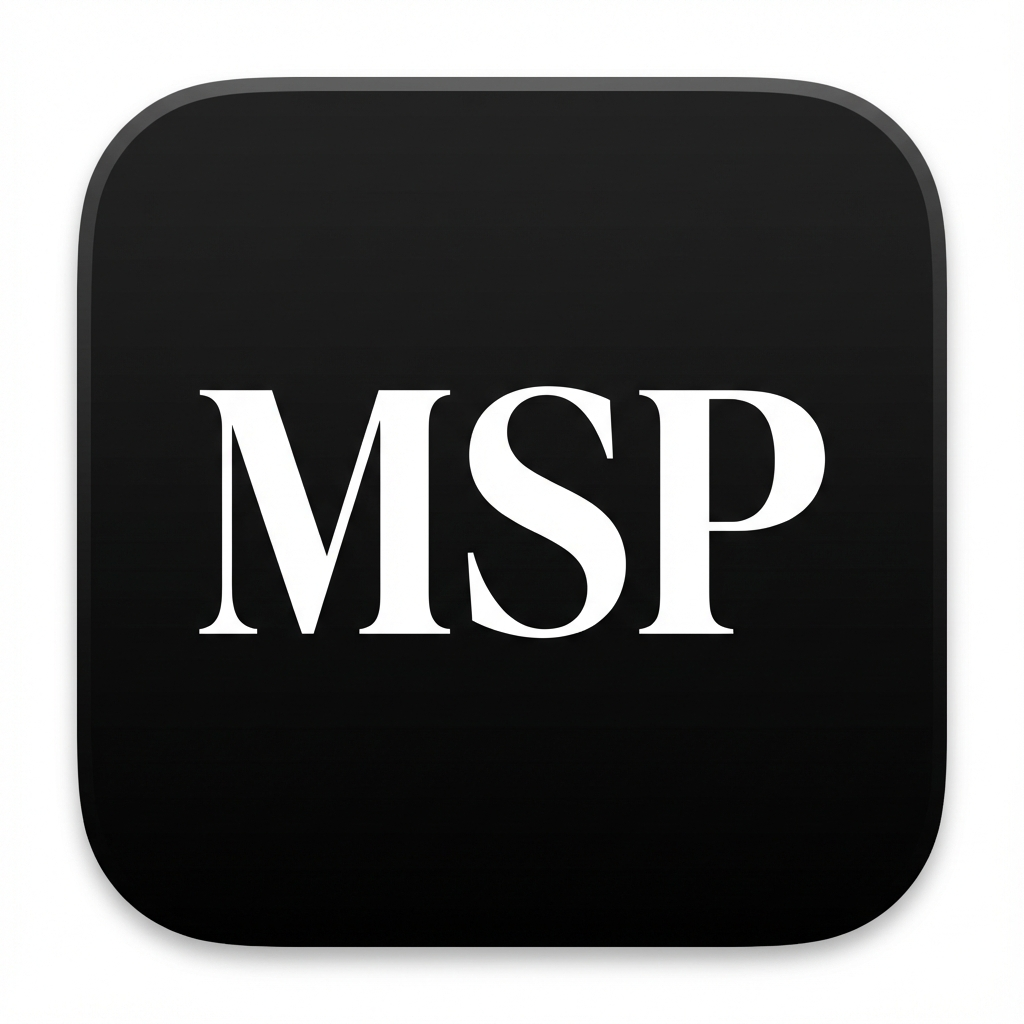
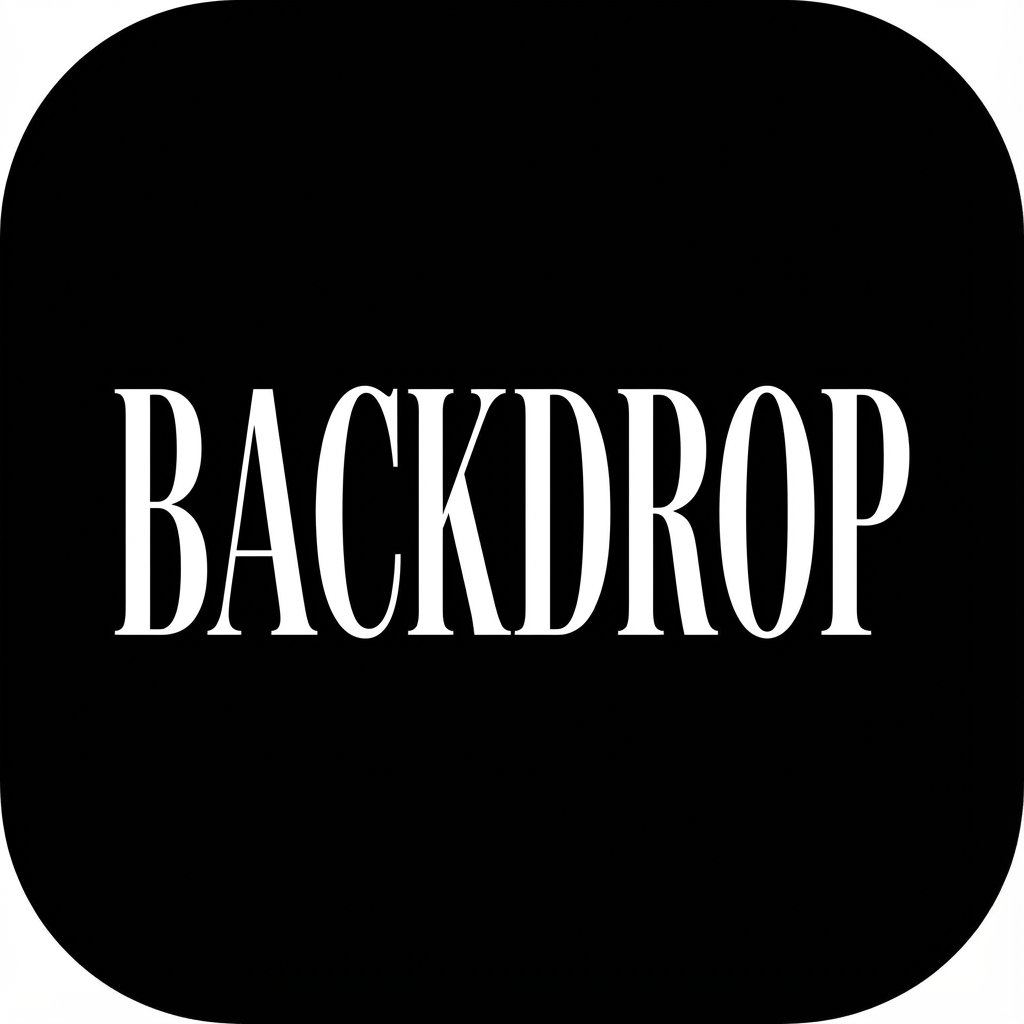
rebranding to Backdrop

diff --git a/src/app/page.tsx b/src/app/page.tsx
@@ -288,9 +288,12 @@ function App() {
           <div className="flex items-center justify-between h-16">
             <div className="flex items-center gap-6">
               <div className="flex-shrink-0 flex items-center pr-4">
-                <h1 className="text-xl font-black text-gray-900 uppercase tracking-tighter truncate max-w-[200px] lg:max-w-[300px]" title={APP_CONFIG.NAME}>
-                  {APP_CONFIG.NAME}
-                </h1>
+                <div className="group relative cursor-default" title={APP_CONFIG.NAME}>
+                  <div className="flex items-center">
+                    <span className="text-3xl font-[1000] text-gray-900 leading-none">B</span>
+                    <span className="text-3xl font-[1000] text-blue-600 leading-none -ml-0.5">.</span>
+                  </div>
+                </div>
               </div>
 
             </div>
@@ -415,17 +418,28 @@ function App() {
                 </div>
               )}
 
-              <div className="border-l border-gray-300 h-8 mx-2"></div>
-              {user.email && (
-                <span className="text-sm text-gray-600 hidden lg:inline">{user.email}</span>
-              )}
-              <button
-                onClick={() => db.auth.signOut()}
-                className="p-2 text-gray-700 hover:bg-gray-100 rounded-xl transition-all"
-                title="Sign Out"
-              >
-                <svg className="w-5 h-5" fill="none" stroke="currentColor" viewBox="0 0 24 24"><path strokeLinecap="round" strokeLinejoin="round" strokeWidth="2.5" d="M17 16l4-4m0 0l-4-4m4 4H7m6 4v1a3 3 0 01-3 3H6a3 3 0 01-3-3V7a3 3 0 013-3h4a3 3 0 013 3v1" /></svg>
-              </button>
+              <div className="flex items-center gap-3 pr-2">
+                <div className="border-l border-gray-300 h-8 mx-2"></div>
+                {(user as any)?.google?.picture || (user as any)?.picture ? (
+                  <img
+                    src={((user as any)?.google?.picture || (user as any)?.picture) as string}
+                    alt={user.email || 'User'}
+                    className="w-8 h-8 rounded-full border-2 border-white shadow-sm ring-1 ring-gray-100"
+                    title={user.email || undefined}
+                  />
+                ) : (
+                  <div className="w-8 h-8 rounded-full bg-gray-900 flex items-center justify-center text-[10px] font-black text-white uppercase shrink-0" title={user.email || undefined}>
+                    {(user.email || "?")[0]}
+                  </div>
+                )}
+                <button
+                  onClick={() => db.auth.signOut()}
+                  className="p-2 text-gray-700 hover:bg-gray-100 rounded-xl transition-all"
+                  title="Sign Out"
+                >
+                  <svg className="w-5 h-5" fill="none" stroke="currentColor" viewBox="0 0 24 24"><path strokeLinecap="round" strokeLinejoin="round" strokeWidth="2.5" d="M17 16l4-4m0 0l-4-4m4 4H7m6 4v1a3 3 0 01-3 3H6a3 3 0 01-3-3V7a3 3 0 013-3h4a3 3 0 013 3v1" /></svg>
+                </button>
+              </div>
             </div>
           </div>
         </div>
@@ -433,13 +447,23 @@ function App() {
 
       {/* Mobile Top Header */}
       <header className="md:hidden bg-white shadow-sm sticky top-0 z-[60] px-5 py-3 border-b border-gray-100 flex justify-between items-center h-14">
-        <h1 className="text-base font-black text-gray-900 uppercase tracking-tighter truncate pr-4" title={APP_CONFIG.NAME}>
-          {APP_CONFIG.NAME}
-        </h1>
+        <div className="flex items-center cursor-default" title={APP_CONFIG.NAME}>
+          <span className="text-2xl font-[1000] text-gray-900 leading-none">B</span>
+          <span className="text-2xl font-[1000] text-blue-600 leading-none -ml-0.5">.</span>
+        </div>
         <div className="flex items-center gap-3">
-          <div className="w-8 h-8 rounded-full bg-gray-900 flex items-center justify-center text-[10px] font-black text-white uppercase shrink-0">
-            {user.email?.[0] || user.id[0]}
-          </div>
+          {(user as any)?.google?.picture || (user as any)?.picture ? (
+            <img
+              src={((user as any)?.google?.picture || (user as any)?.picture) as string}
+              alt={user.email || 'User'}
+              className="w-8 h-8 rounded-full border border-gray-100"
+              title={user.email || undefined}
+            />
+          ) : (
+            <div className="w-8 h-8 rounded-full bg-gray-900 flex items-center justify-center text-[10px] font-black text-white uppercase shrink-0" title={user.email || undefined}>
+              {(user.email || user.id)[0]}
+            </div>
+          )}
         </div>
       </header>
 

diff --git a/src/components/InstallPrompt.tsx b/src/components/InstallPrompt.tsx
@@ -84,10 +84,10 @@ export function InstallPrompt() {
 
                 <div className="flex items-center gap-4">
                     <div className="w-14 h-14 bg-black rounded-2xl flex items-center justify-center shrink-0 shadow-lg">
-                        <span className="text-white font-black text-xl italic tracking-tighter">MSP</span>
+                        <span className="text-white font-black text-[10px] italic tracking-tighter">BACKDROP</span>
                     </div>
                     <div className="flex-1 pr-6">
-                        <h4 className="text-sm font-black text-gray-900 uppercase tracking-widest">Install MSP Suite</h4>
+                        <h4 className="text-sm font-black text-gray-900 uppercase tracking-widest">Install BACKDROP Suite</h4>
                         <p className="text-[11px] font-bold text-gray-500 uppercase leading-relaxed mt-0.5">
                             Add to your home screen for a premium, lightning-fast experience.
                         </p>

diff --git a/src/app/manifest.ts b/src/app/manifest.ts
@@ -2,8 +2,8 @@ import type { MetadataRoute } from 'next'
 
 export default function manifest(): MetadataRoute.Manifest {
     return {
-        name: process.env.NEXT_PUBLIC_APP_NAME || 'MSP Business Suite',
-        short_name: 'MSP',
+        name: process.env.NEXT_PUBLIC_APP_NAME || 'BACKDROP Business Suite',
+        short_name: 'BACKDROP',
         description: 'A premium suite for business management and invoicing.',
         start_url: '/',
         display: 'standalone',

diff --git a/src/app/layout.tsx b/src/app/layout.tsx
@@ -15,12 +15,12 @@ const geistMono = Geist_Mono({
 import { InstallPrompt } from '@/components/InstallPrompt';
 
 export const metadata: Metadata = {
-  title: process.env.NEXT_PUBLIC_APP_NAME || 'MSP',
+  title: process.env.NEXT_PUBLIC_APP_NAME || 'BACKDROP',
   description: 'Business Suite Application',
   appleWebApp: {
     capable: true,
     statusBarStyle: 'default',
-    title: 'MSP Suite',
+    title: 'BACKDROP Suite',
   },
   formatDetection: {
     telephone: false,

diff --git a/src/config.ts b/src/config.ts
@@ -1,3 +1,3 @@
 export const APP_CONFIG = {
-    NAME: process.env.NEXT_PUBLIC_APP_NAME || "MSP",
+    NAME: process.env.NEXT_PUBLIC_APP_NAME || "BACKDROP",
 };
